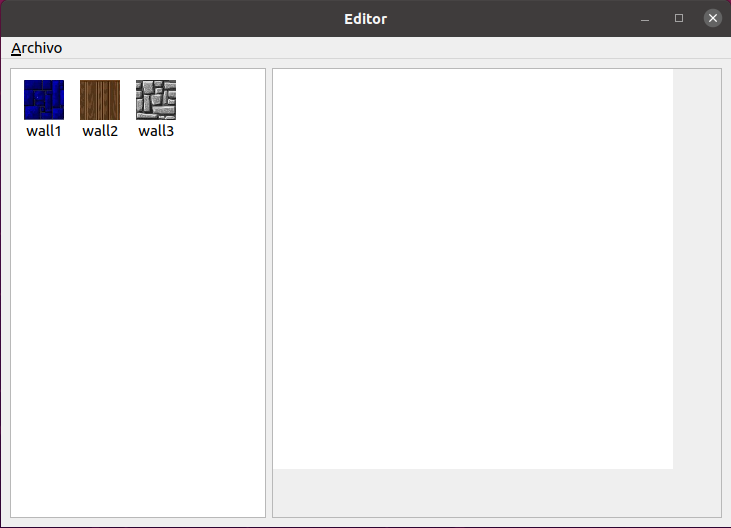
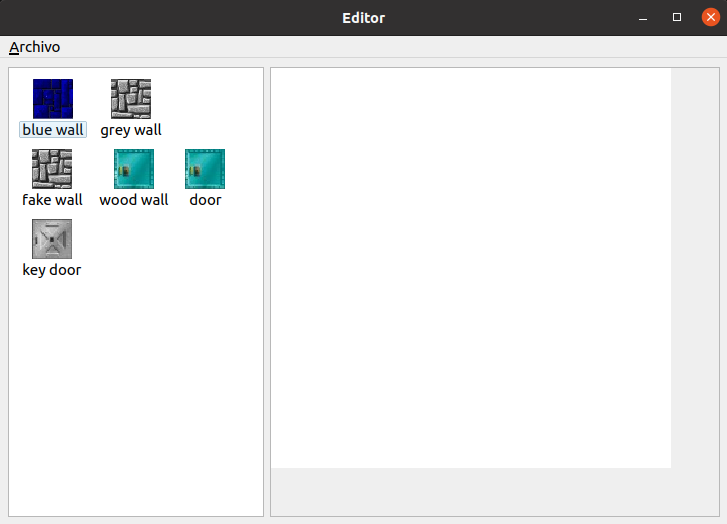
fix editor

Changed region(s): [[0.0, 0.0, 1.0, 1.0]]

diff --git a/client/src/juego.cpp b/client/src/juego.cpp
@@ -7,7 +7,7 @@
 
 #define BLUE_WALL IMGS_DIR BLUE_WALL_IMG
 #define GREY_WALL IMGS_DIR GREY_WALL_IMG
-#define WOOD_WALL IMGS_DIR DOOR_IMG
+#define WOOD_WALL IMGS_DIR WOOD_WALL_IMG
 #define DOOR IMGS_DIR DOOR_IMG
 #define KEY_DOOR IMGS_DIR KEYDOOR_IMG
 #define RANGO_DE_VISTA 1.047197551

diff --git a/editor/src/mainwindow.cpp b/editor/src/mainwindow.cpp
@@ -13,7 +13,7 @@
 
 #define BLUE_WALL IMGS_DIR BLUE_WALL_IMG
 #define GREY_WALL IMGS_DIR GREY_WALL_IMG
-#define WOOD_WALL IMGS_DIR DOOR_IMG
+#define WOOD_WALL IMGS_DIR WOOD_WALL_IMG
 #define DOOR IMGS_DIR DOOR_IMG
 #define KEY_DOOR IMGS_DIR KEYDOOR_IMG
 

diff --git a/manual-usuario.md b/manual-usuario.md
@@ -12,7 +12,8 @@ Si se quisiese compilar el código fuente se deberán instalar estos paquetes a 
 * lua5.3 liblua5.3-dev
 * libsdl2-ttf-dev
 * libyaml-cpp-dev
-
+* libsdl2-image-dev
+* qt5-default
 
 ### Requerimientos de hardware
 El programa fue probado en computadoras sin una placa gráfica especial, y con procesadores intel i5 e i7.
